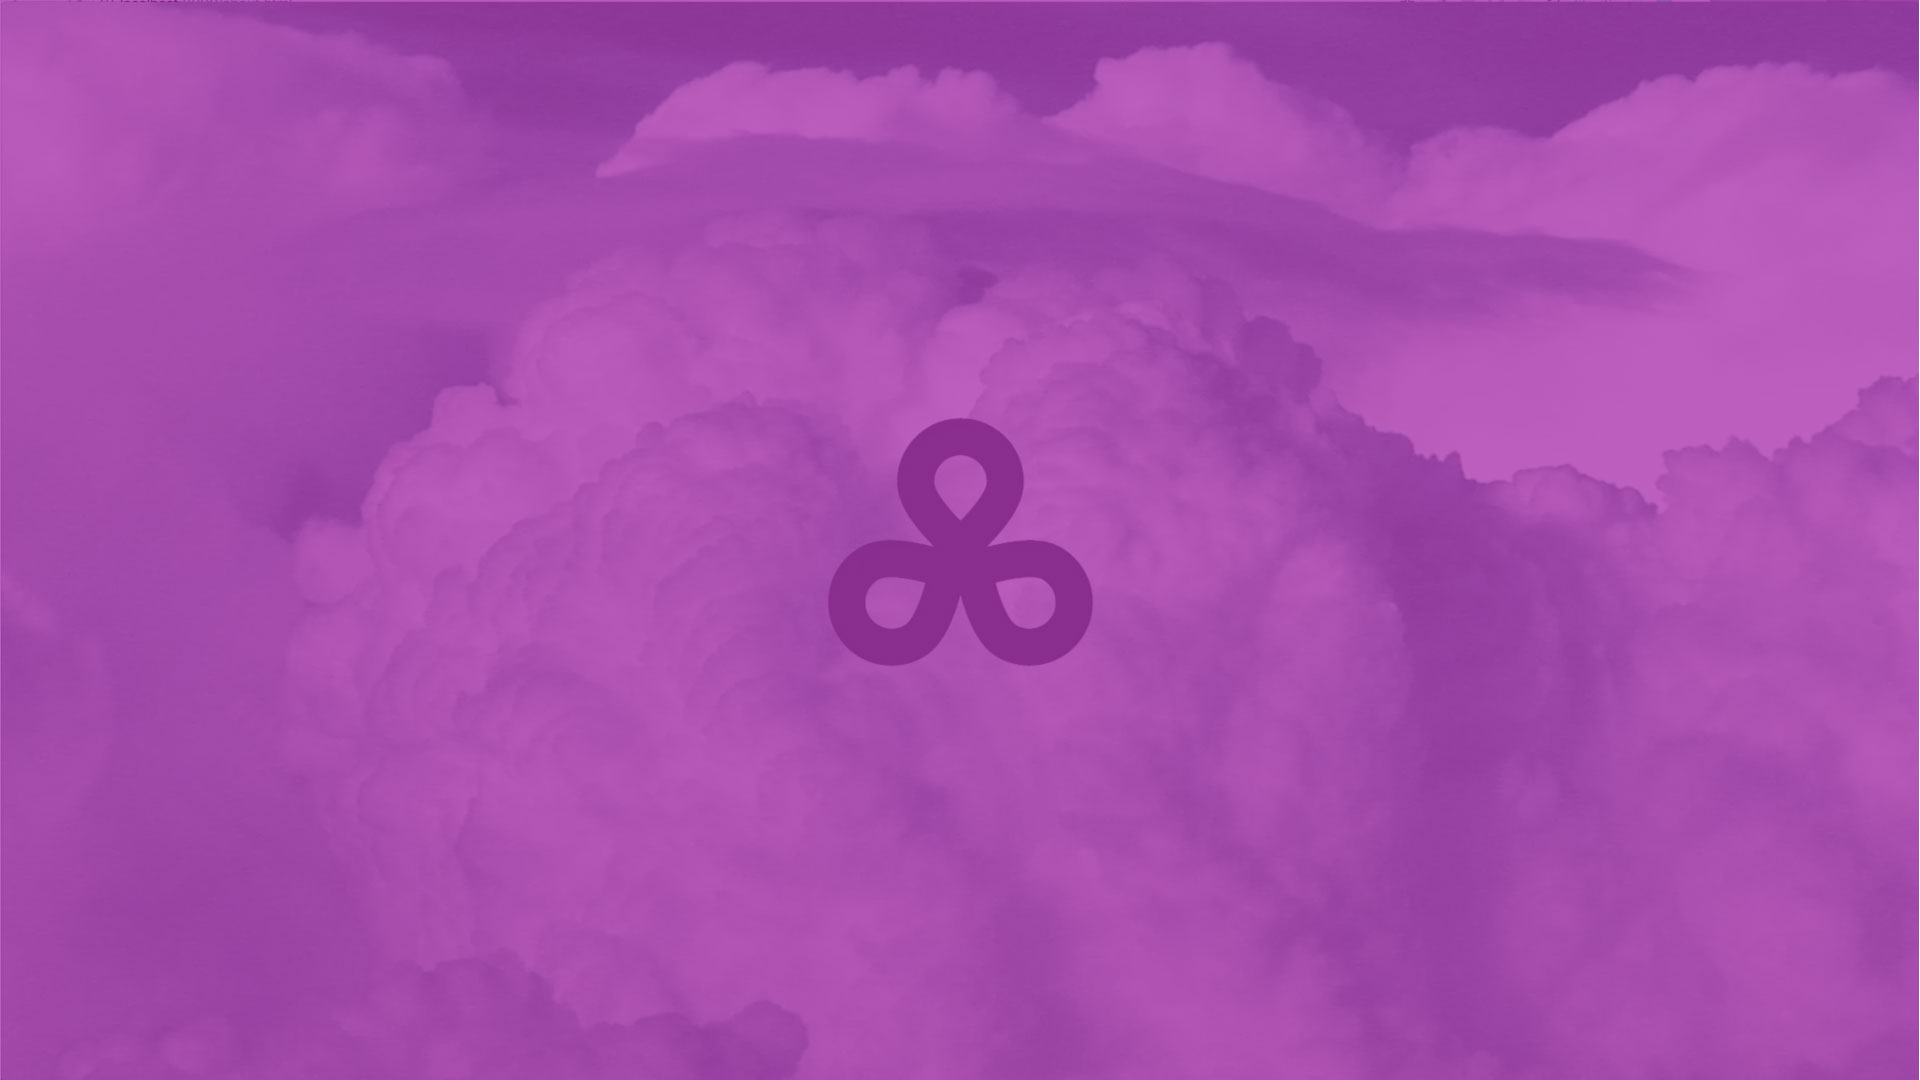
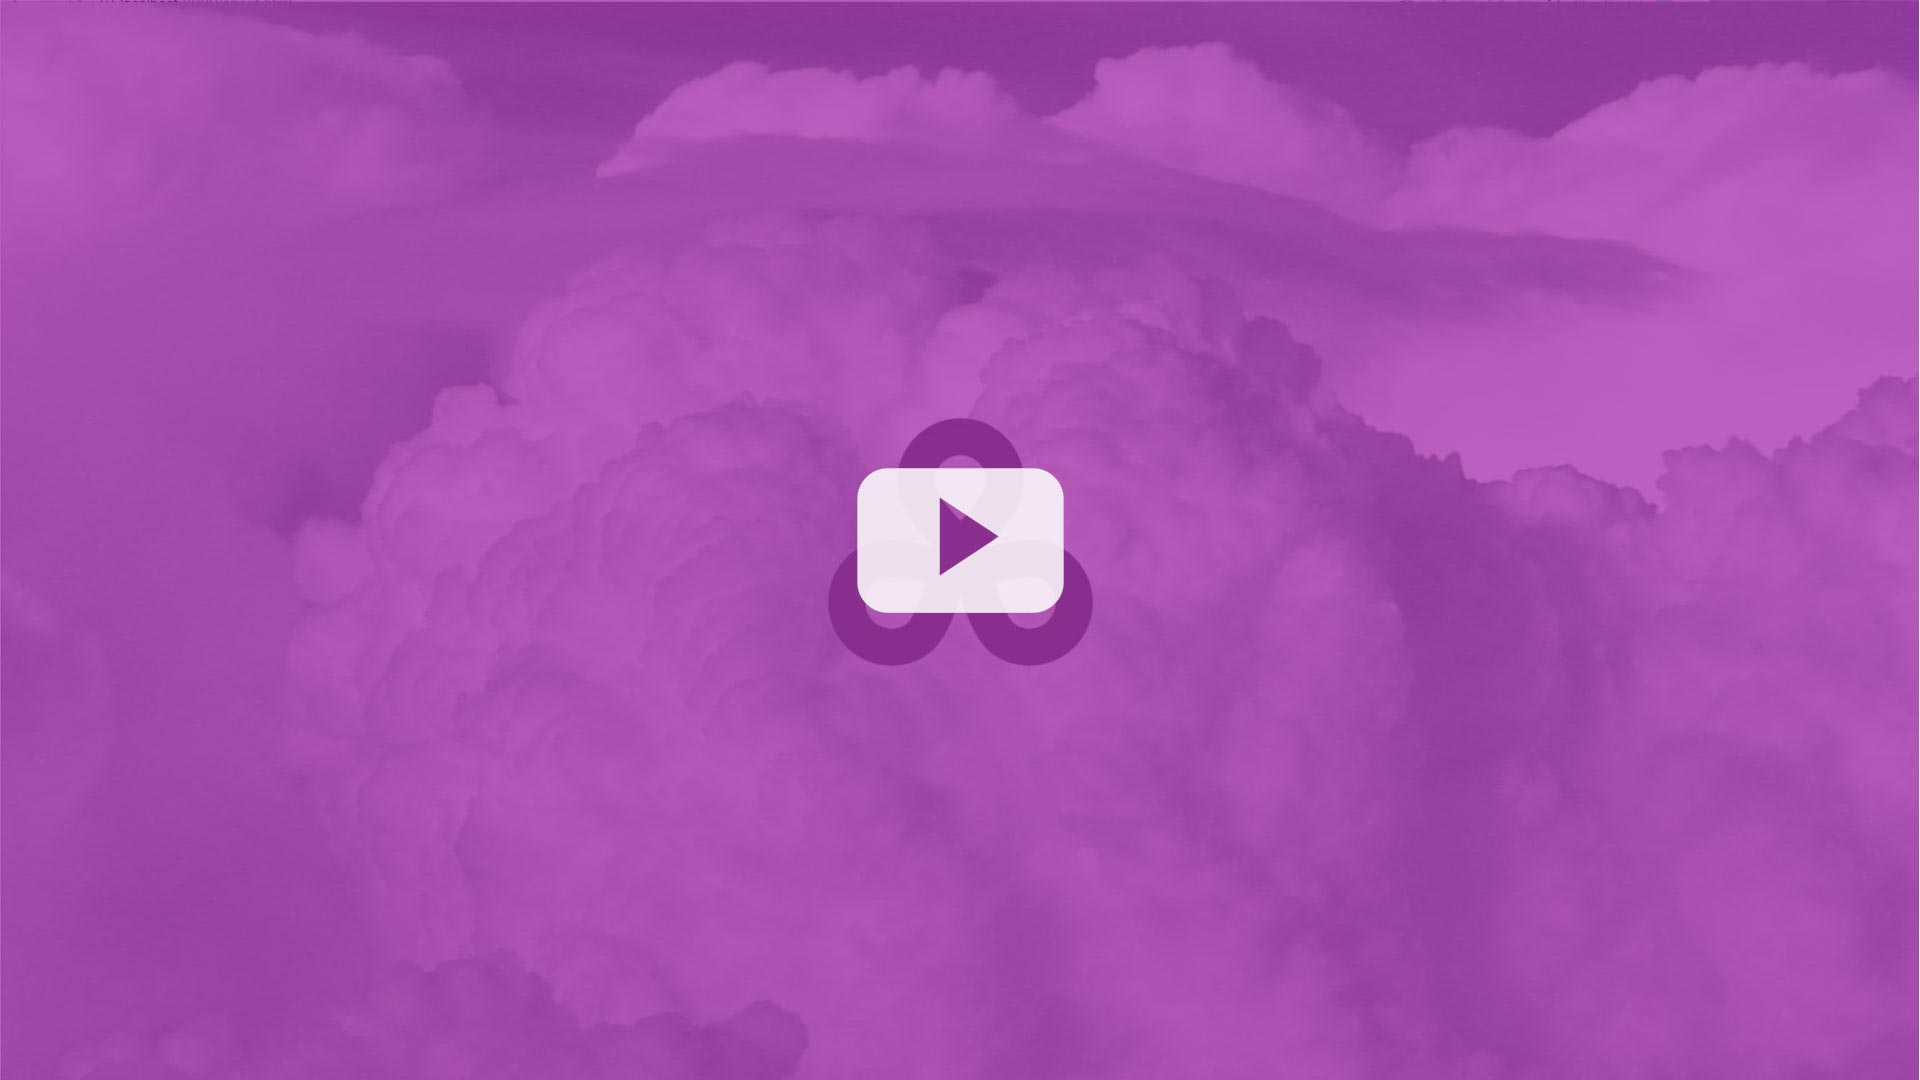
Video player updated with controls for better UX

Changed region(s): [[0.4375, 0.4278, 0.5625, 0.5806]]

diff --git a/src/js/main.js b/src/js/main.js
@@ -1,3 +1,48 @@
+function playVideo(el) {
+            var videoId = el.data('video');
+            var video = document.getElementById(videoId);
+
+            if (video.paused) {
+                // Play the video
+                video.play();
+                el.removeClass('paused').addClass('playing');
+            } else {
+                // Pause the video
+                video.pause();
+                el.removeClass('playing').addClass('paused');
+            }
+        }
+
+        $(document).on('click', '.js-video-control', function(e) {
+            playVideo($(this));
+            e.preventDefault();
+        });
+
+// Contact form with the lovely sweetAlert
+
+$(document).ready(function(){
+  $('#contact-form').on('submit',function(e) {
+  $.ajax({
+      url:'contact.php',
+      data:$(this).serialize(),
+      type:'POST',
+      success:function(data){
+        console.log(data);
+	    swal("Success!", "Message sent. I will get back to you as soon as possible.", "success");
+      },
+      error:function(data){
+	    swal("Oh no...", "It's not you, it's me. Please try again or test your internet connection.", "error");
+      }
+    });
+    e.preventDefault();
+  });
+});
+        $('.menu-handle').on('click', function() {
+            $('nav ul').toggleClass('menu-visible');
+        });
+
+        
+
 // The MIT License (MIT)
 
 // Typed.js | Copyright (c) 2016 Matt Boldt | www.mattboldt.com
@@ -19,26 +64,6 @@
 // LIABILITY, WHETHER IN AN ACTION OF CONTRACT, TORT OR OTHERWISE, ARISING FROM,
 // OUT OF OR IN CONNECTION WITH THE SOFTWARE OR THE USE OR OTHER DEALINGS IN
 // THE SOFTWARE.
-
-// Contact form with the lovely sweetAlert
-
-$(document).ready(function(){
-  $('#contact-form').on('submit',function(e) {
-  $.ajax({
-      url:'contact.php',
-      data:$(this).serialize(),
-      type:'POST',
-      success:function(data){
-        console.log(data);
-	    swal("Success!", "Message sent. I will get back to you as soon as possible.", "success");
-      },
-      error:function(data){
-	    swal("Oh no...", "It's not you, it's me. Please try again or test your internet connection.", "error");
-      }
-    });
-    e.preventDefault();
-  });
-});
 
 
 ! function(window, document, $) {

diff --git a/src/about.html b/src/about.html
@@ -127,7 +127,7 @@
     </section>
 
 
-        <section class="contact-form">
+    <section class="contact-form">
         <div class="twelve columns contact-hero ">
         </div>
         <div class="container">
@@ -195,32 +195,15 @@
         ga('create', 'UA-97851775-1', 'auto');
         ga('send', 'pageview');
     </script>
-    <script>
-        $('.menu-handle').on('click', function() {
-            $('nav ul').toggleClass('menu-visible');
-        });
-    </script>
 
     <script>
-        function playVideo(el) {
-            var videoId = el.data('video');
-            var video = document.getElementById(videoId);
-
-            if (video.paused) {
-                // Play the video
-                video.play();
-                el.removeClass('paused').addClass('playing');
-            } else {
-                // Pause the video
-                video.pause();
-                el.removeClass('playing').addClass('paused');
-            }
-        }
-
-        $(document).on('click', '.js-video-control', function(e) {
-            playVideo($(this));
-            e.preventDefault();
-        });
+       $("#video1").hover(function(event) {
+    if(event.type === "mouseenter") {
+        $(this).attr("controls", "");
+    } else if(event.type === "mouseleave") {
+        $(this).removeAttr("controls");
+    }
+});
     </script>
 </body>
 

diff --git a/src/scss/_04-elements.scss b/src/scss/_04-elements.scss
@@ -90,7 +90,7 @@ a {
     font-family: $body;
     text-decoration: none;
     color: inherit;
-    font-weight: bold;
+    font-weight: 700;
 }
 
 a:hover,
@@ -210,7 +210,7 @@ textarea:focus {
 label {
     color: $white;
     font-size: 18px;
-    font-weight: normal;
+    font-weight: 400;
     position: absolute;
     pointer-events: none;
     left: 5px;

diff --git a/src/work.html b/src/work.html
@@ -226,11 +226,6 @@
         ga('send', 'pageview');
     </script>
     <script>
-        $('.menu-handle').on('click', function() {
-            $('nav ul').toggleClass('menu-visible');
-        });
-    </script>
-    <script>
         $(window).scroll(function() {
 
             var wScroll = $(this).scrollTop();

diff --git a/src/ackee.html b/src/ackee.html
@@ -226,11 +226,6 @@
         ga('create', 'UA-97851775-1', 'auto');
         ga('send', 'pageview');
     </script>
-    <script>
-        $('.menu-handle').on('click', function() {
-            $('nav ul').toggleClass('menu-visible');
-        });
-    </script>
 
 </body>
 

diff --git a/src/cgm.html b/src/cgm.html
@@ -226,11 +226,6 @@
         ga('create', 'UA-97851775-1', 'auto');
         ga('send', 'pageview');
     </script>
-    <script>
-        $('.menu-handle').on('click', function() {
-            $('nav ul').toggleClass('menu-visible');
-        });
-    </script>
 
 </body>
 

diff --git a/src/jamesfalconer.html b/src/jamesfalconer.html
@@ -222,11 +222,6 @@
         ga('create', 'UA-97851775-1', 'auto');
         ga('send', 'pageview');
     </script>
-    <script>
-        $('.menu-handle').on('click', function() {
-            $('nav ul').toggleClass('menu-visible');
-        });
-    </script>
 
 </body>
 

diff --git a/src/uwork.html b/src/uwork.html
@@ -227,11 +227,6 @@
         ga('create', 'UA-97851775-1', 'auto');
         ga('send', 'pageview');
     </script>
-    <script>
-        $('.menu-handle').on('click', function() {
-            $('nav ul').toggleClass('menu-visible');
-        });
-    </script>
 
 </body>
 
